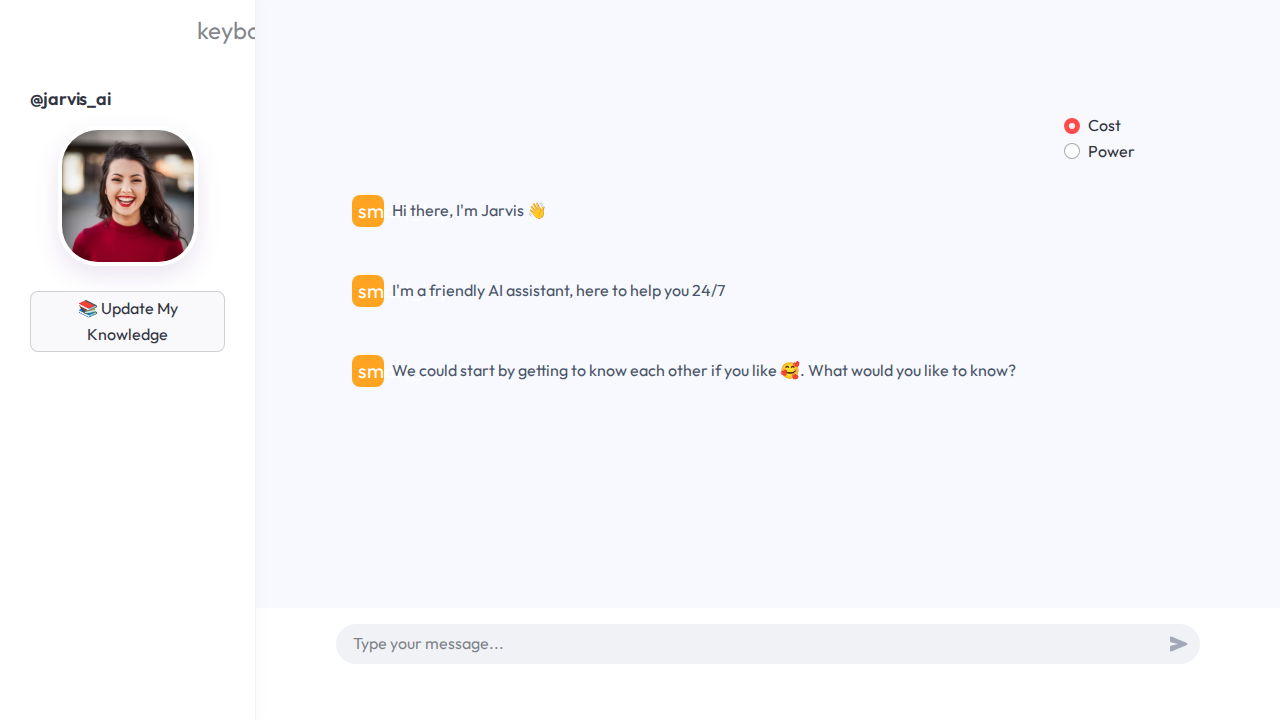
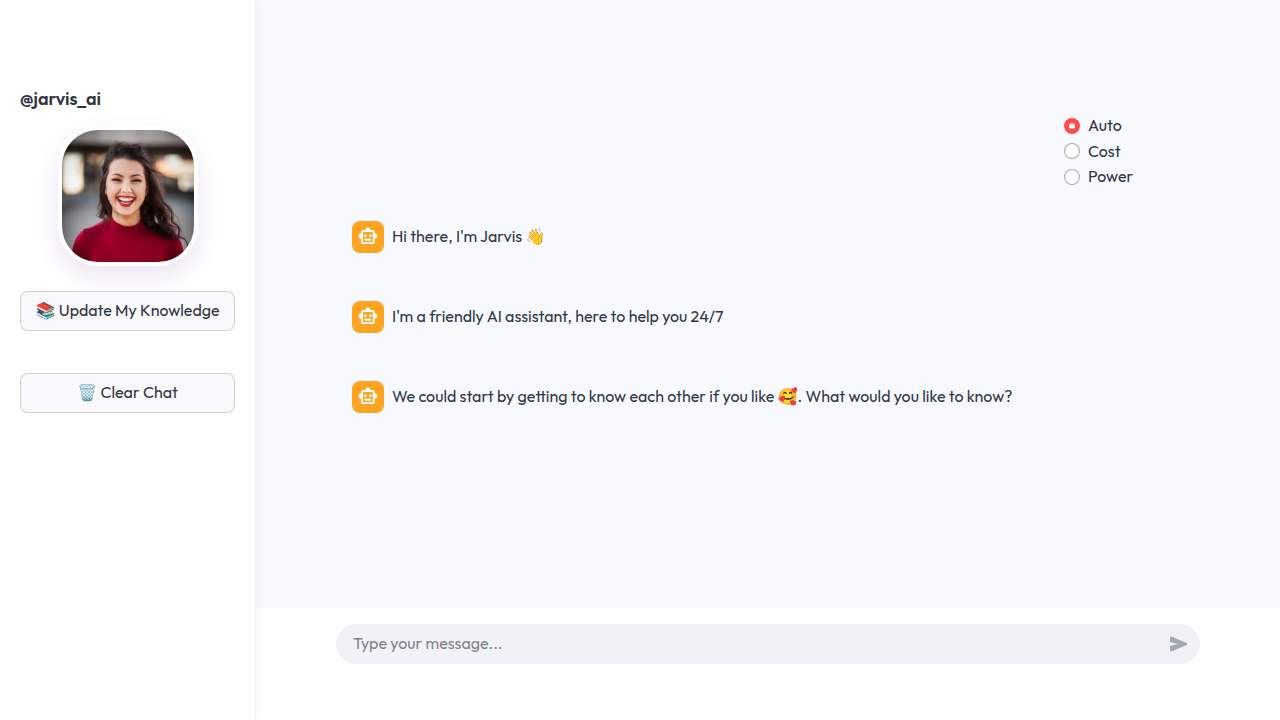
Enhance UI stability and API reliability
- Ensure sidebar is always visible by hiding collapse control
- Increase API client timeouts (300s for chat, 600s for upload) to fix n8n timeout errors
- Update verification script to run in headed mode for better visibility

diff --git a/src/assets/style.css b/src/assets/style.css
@@ -65,6 +65,12 @@ header {
     max-width: 1200px;
 }
 
+/* Sidebar control visibility restored to resolve access issues */
+[data-testid="collapsedControl"] {
+    display: none;
+}
+
+
 /* --- Sidebar Styling --- */
 .css-1d391kg,
 [data-testid="stSidebar"] {

diff --git a/src/api_client.py b/src/api_client.py
@@ -24,7 +24,7 @@ class JarvisClient:
         }
         try:
             # FIX: Use the new variable name here
-            response = requests.post(self.chat_webhook_url, json=payload, timeout=30)
+            response = requests.post(self.chat_webhook_url, json=payload, timeout=300)
             
             if response.status_code != 200:
                 try:
@@ -83,7 +83,7 @@ class JarvisClient:
         
         try:
             # FIX: Use the new variable name here
-            response = requests.post(self.ingest_webhook_url, files=files, data=data, timeout=60)
+            response = requests.post(self.ingest_webhook_url, files=files, data=data, timeout=600)
             response.raise_for_status()
             return True
         except requests.exceptions.RequestException as e:
@@ -99,7 +99,7 @@ class JarvisClient:
         payload = {"url": url, "optimise_for": optimize_for}
         try:
             # FIX: Use the new variable name here
-            response = requests.post(self.ingest_webhook_url, json=payload, timeout=30)
+            response = requests.post(self.ingest_webhook_url, json=payload, timeout=300)
             response.raise_for_status()
             return True
         except requests.exceptions.RequestException as e:

diff --git a/main.py b/main.py
@@ -57,7 +57,7 @@ with st.sidebar:
         st.markdown("**Performance Mode**")
         kb_optimise_for = st.radio(
             "Select optimization mode",
-            options=["Cost", "Power"],
+            options=["Auto", "Cost", "Power"],
             index=0,
             key="kb_optimise_for",
             label_visibility="collapsed"
@@ -121,7 +121,7 @@ with col1:
 with col2:
     chat_optimise_for = st.radio(
         "Chat Optimization Mode",
-        options=["Cost", "Power"],
+        options=["Auto", "Cost", "Power"],
         index=0,
         key="chat_optimise_for",
         horizontal=True,

diff --git a/verify_ui.py b/verify_ui.py
@@ -16,7 +16,7 @@ def run():
             try:
                 # Basic args that work for most
                 browser = browser_type.launch(
-                    headless=True,
+                    headless=False,
                     args=['--no-sandbox', '--disable-dev-shm-usage'] if name == "chromium" else []
                 )
                 print(f"{name} launched successfully.")
